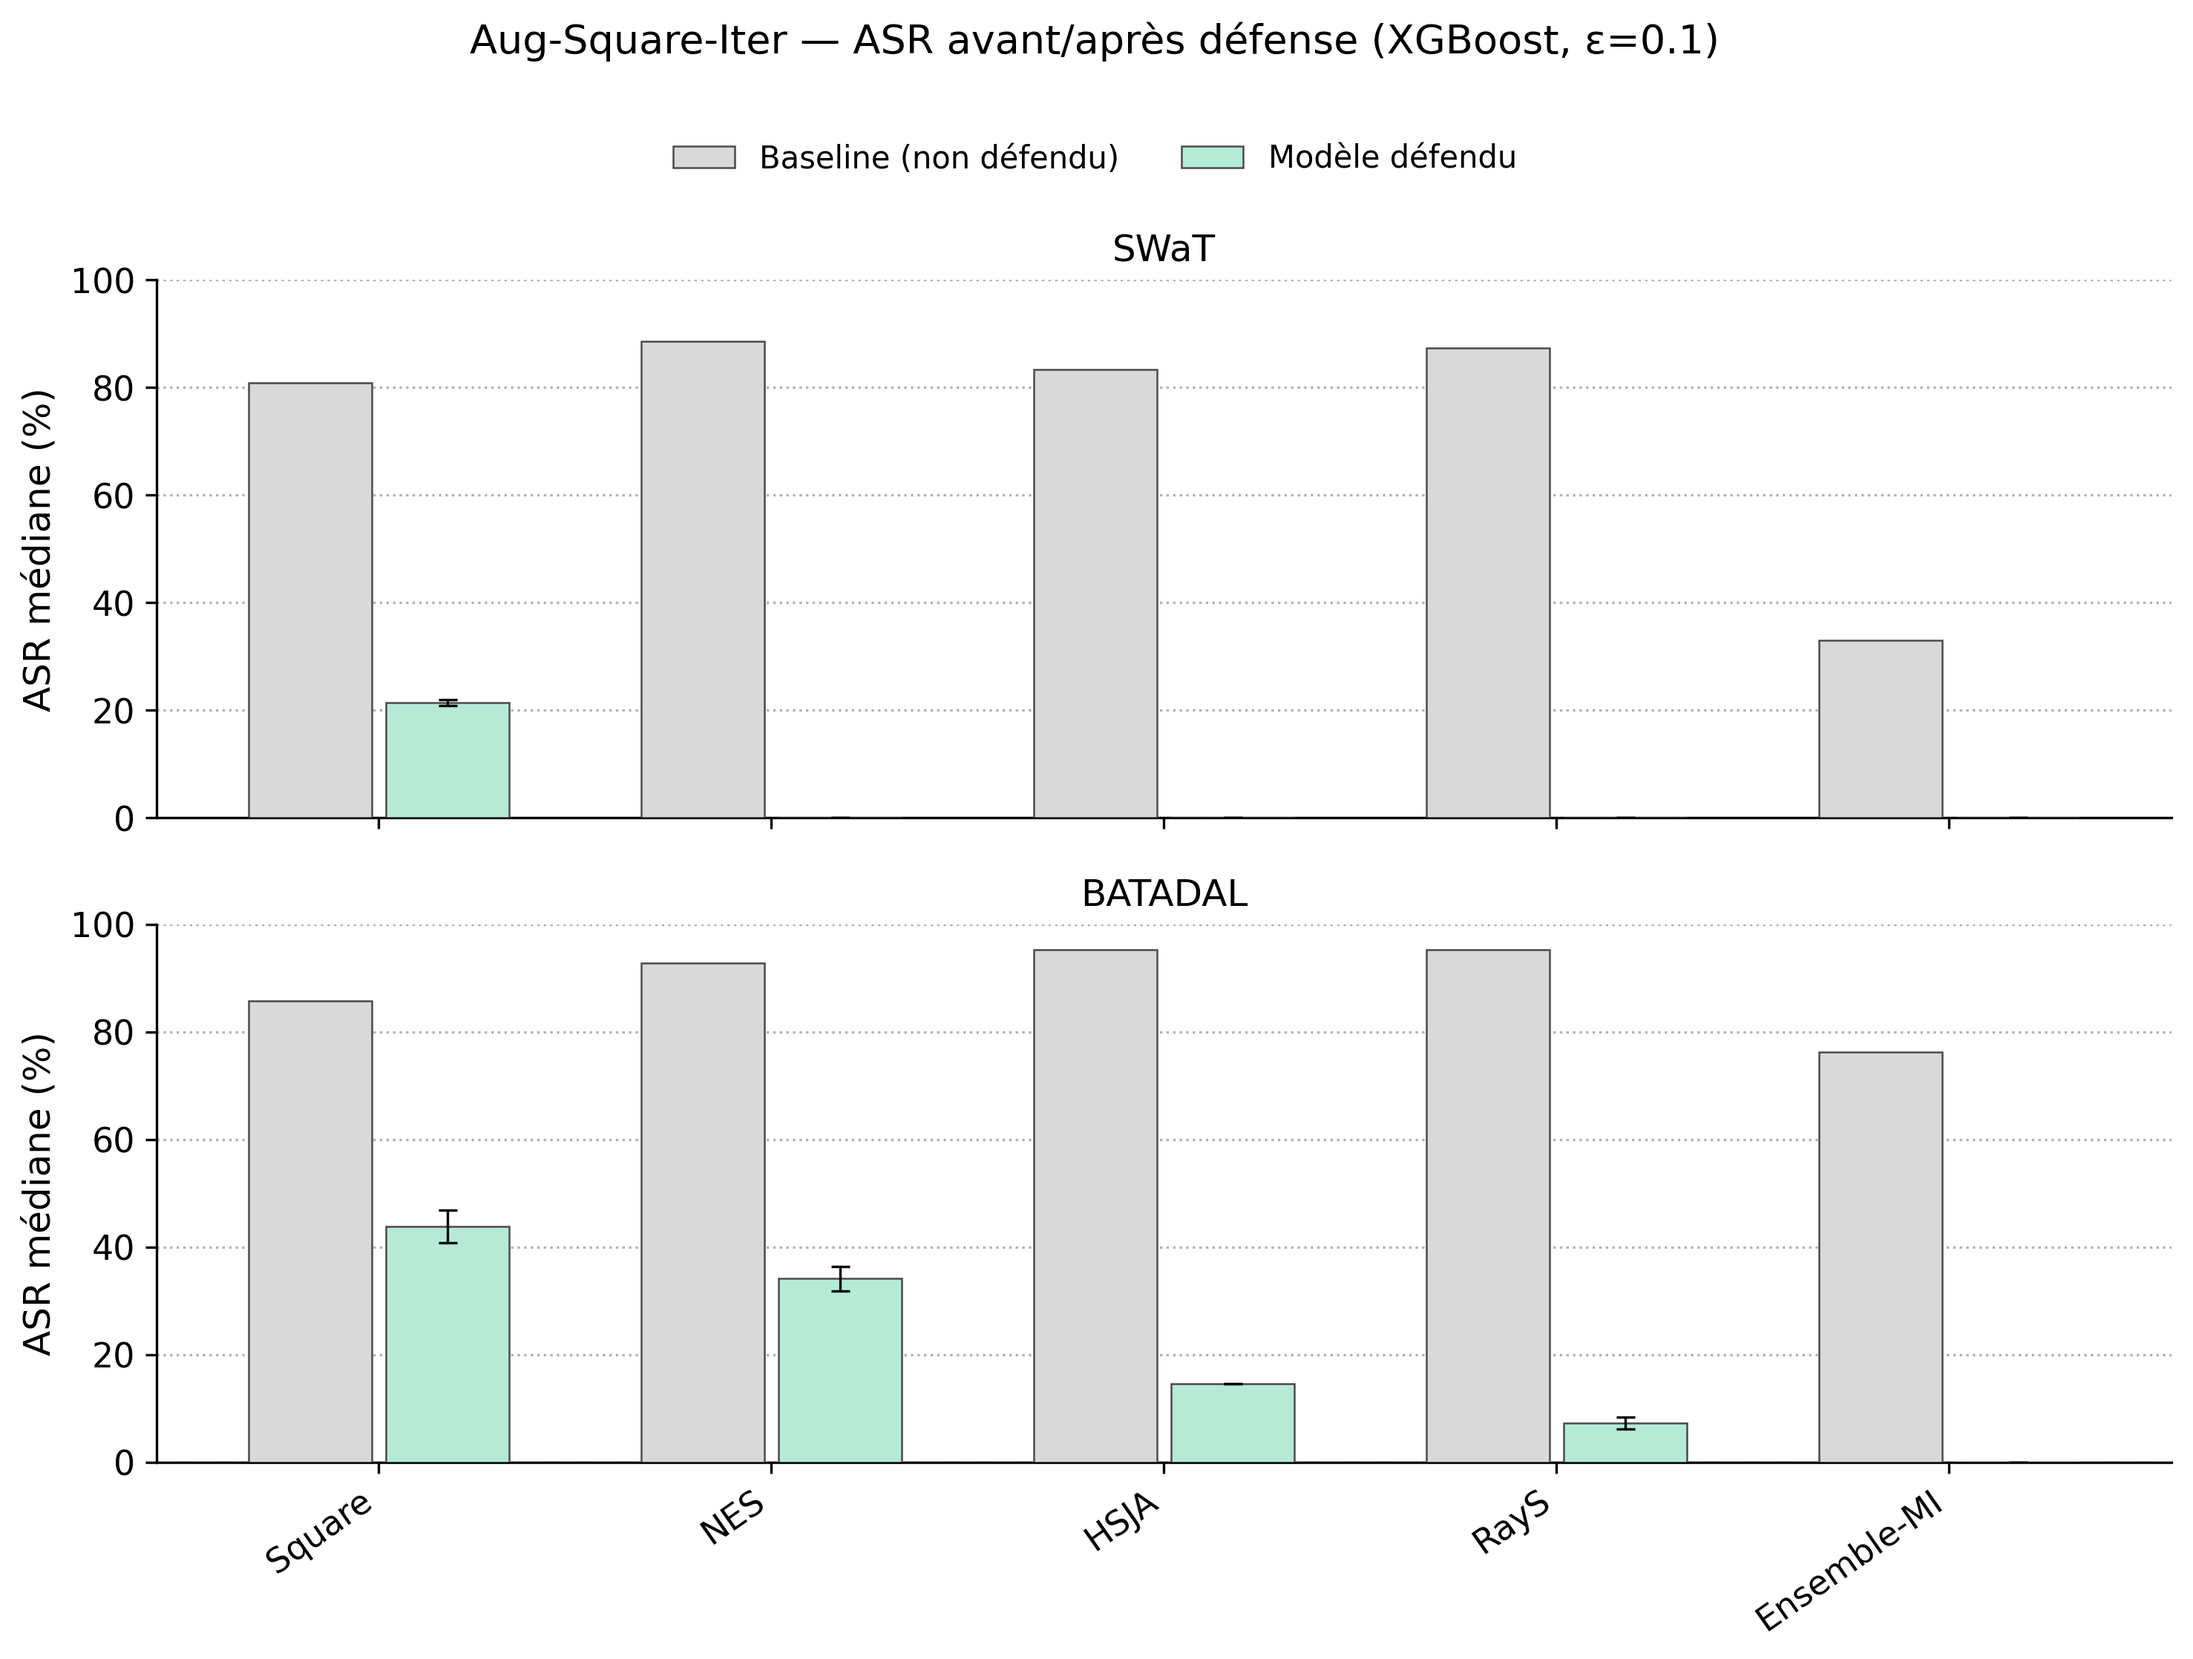
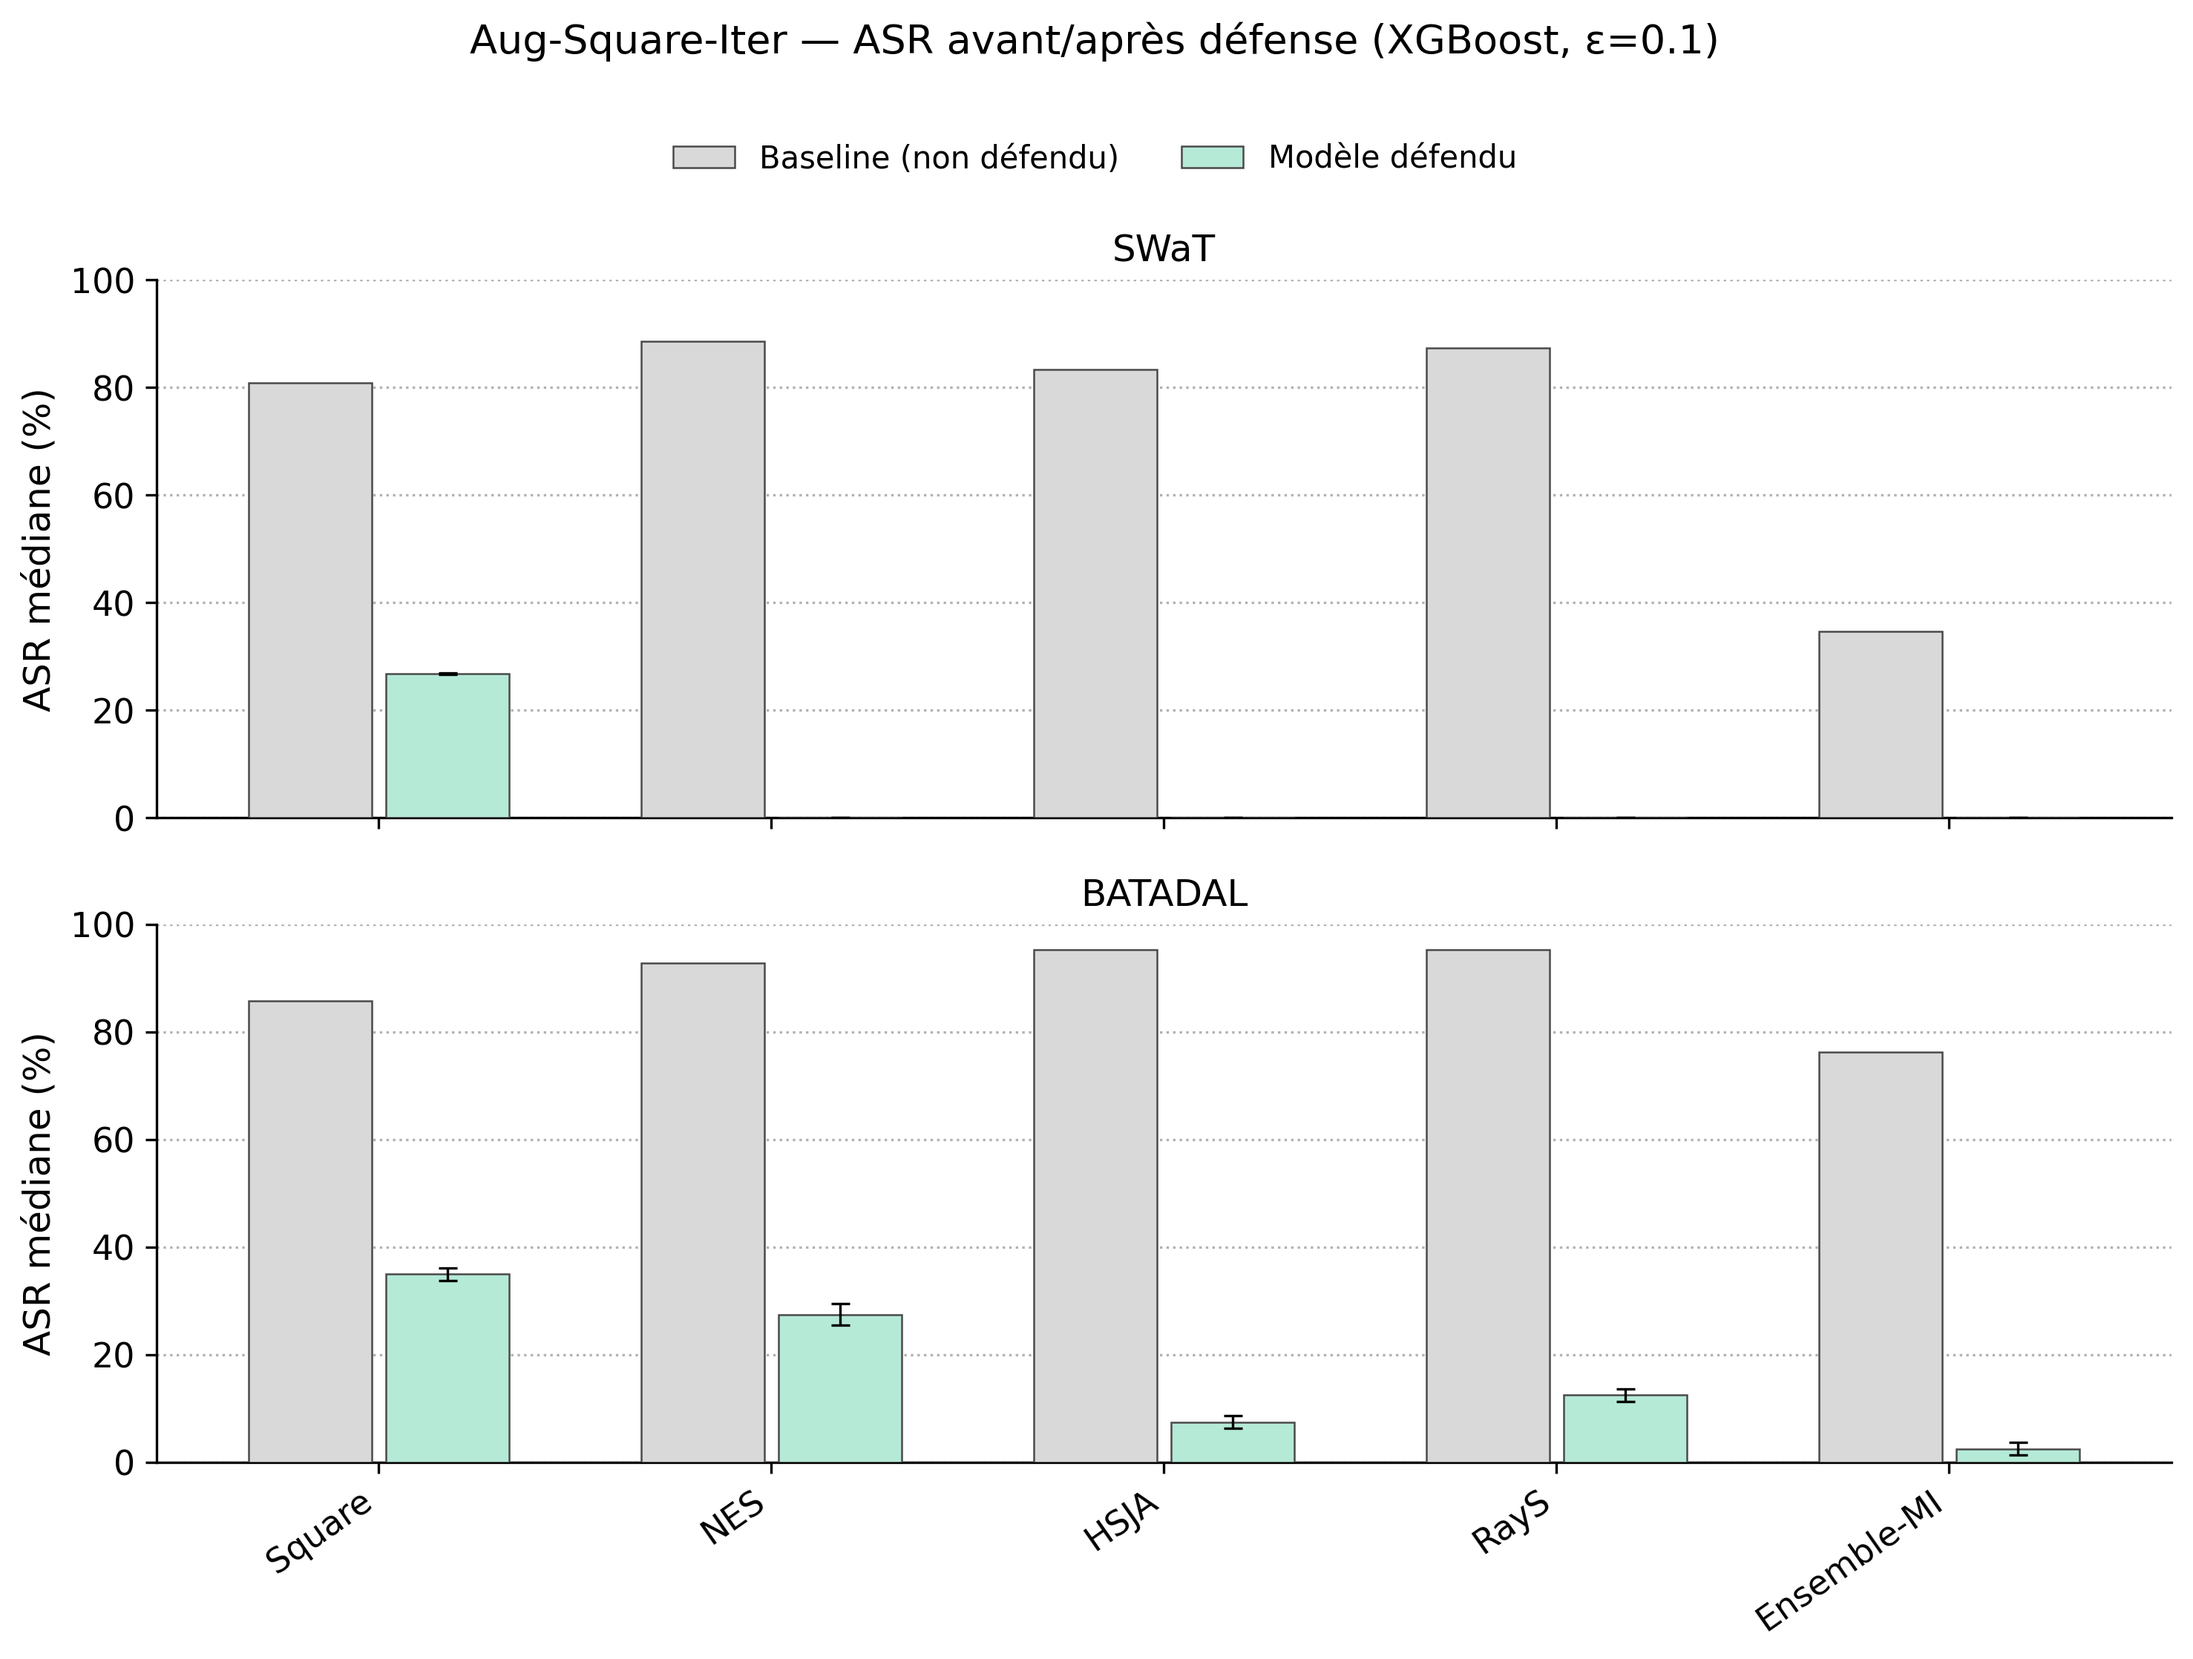
update

diff --git a/src/plot_results.py b/src/plot_results.py
@@ -28,24 +28,46 @@ from common import results_dir, RESULTS_DIR
 
 
 # ══════════════════════════════════════════════════════════════
-# PALETTE — Okabe-Ito (colorblind-safe), une couleur fixe par modèle,
-# utilisée partout de façon cohérente (jamais recyclée pour autre chose).
+# PALETTE — validée colorblind-safe (script dataviz/validate_palette.js,
+# CVD ΔE ≥ 8 sur toutes les paires, mode light, --pairs all). Une couleur
+# fixe par modèle, utilisée partout de façon cohérente (jamais recyclée
+# pour autre chose). Volontairement distincte du bleu/orange/vert terne
+# utilisé auparavant.
 # ══════════════════════════════════════════════════════════════
 
 MODEL_COLOR = {
-    "MLP":     "#0072B2",
-    "LogReg":  "#E69F00",
-    "XGBoost": "#009E73",
+    "MLP":     "#4A3AA7",  # violet
+    "LogReg":  "#EDA100",  # ambre
+    "XGBoost": "#E34948",  # rouge/corail
 }
 MODEL_ORDER = ["MLP", "LogReg", "XGBoost"]
-GRID_COLOR  = "#B0B0B0"
+GRID_COLOR  = "#C3C2B7"
+
+plt.rcParams.update({
+    "font.family":      "sans-serif",
+    "font.size":         10.5,
+    "axes.titlesize":    11,
+    "axes.labelsize":    10.5,
+    "xtick.labelsize":   9.5,
+    "ytick.labelsize":   9.5,
+    "legend.fontsize":   9.5,
+    "figure.facecolor":  "white",
+    "axes.facecolor":    "white",
+    "savefig.facecolor": "white",
+})
 
 
 def _style_axis(ax):
     ax.spines["top"].set_visible(False)
     ax.spines["right"].set_visible(False)
-    ax.yaxis.grid(True, ls="--", alpha=0.35, color=GRID_COLOR, zorder=0)
+    ax.yaxis.grid(True, ls="-", alpha=0.25, color=GRID_COLOR, lw=0.7, zorder=0)
     ax.set_axisbelow(True)
+
+
+def _savefig_png(fig, outp, dpi=300, **kwargs):
+    """Sauvegarde en PNG haute résolution."""
+    fig.savefig(outp, dpi=dpi, **kwargs)
+    print(f"  ✓ {outp.name}")
 
 
 # ══════════════════════════════════════════════════════════════
@@ -355,19 +377,19 @@ def _bar_panel_combined(ax, df, attack_order, title, value_col="asr"):
                 errs.append(float(row["std"].fillna(0).iloc[0]) * 100 if not row.empty else 0)
             xpos = x + (bar_idx - n_bars / 2 + 0.5) * w
             ax.bar(xpos, vals, width=w * 0.92, color=MODEL_COLOR[model],
-                   hatch=DATASET_HATCH[ds], edgecolor="white", linewidth=0.5,
+                   hatch=DATASET_HATCH[ds], edgecolor="white", linewidth=0.6,
                    yerr=errs, capsize=1.5, zorder=3)
             for xi, v in zip(xpos, vals):
                 if not np.isnan(v):
-                    ax.text(xi, v + 2, f"{v:.0f}", ha="center", va="bottom", fontsize=7)
+                    ax.text(xi, v + 2, f"{v:.0f}", ha="center", va="bottom", fontsize=7.5)
             finite = [v + e for v, e in zip(vals, errs) if not np.isnan(v)]
             if finite:
                 ymax = max(ymax, *finite)
             bar_idx += 1
 
     ax.set_xticks(x)
-    ax.set_xticklabels(attacks, fontsize=9)
-    ax.set_title(title, fontsize=9.5, fontweight="bold")
+    ax.set_xticklabels(attacks, fontsize=9.5)
+    ax.set_title(title, fontsize=10, fontweight="bold")
     ax.set_ylim(0, min(ymax + 22, 112))
     ax.yaxis.set_major_formatter(FuncFormatter(lambda v, _: f"{int(v)}%"))
 
@@ -422,9 +444,8 @@ def fig_blackbox_overview_combined(eps, datasets=("swat", "batadal")):
     out_dir = RESULTS_DIR / "combined" / "plots"
     out_dir.mkdir(parents=True, exist_ok=True)
     outp = out_dir / "overview_blackbox_all_en.png"
-    fig.savefig(outp, dpi=180, bbox_inches="tight")
+    _savefig_png(fig, outp, dpi=300, bbox_inches="tight")
     plt.close(fig)
-    print(f"  ✓ {outp}")
 
 
 # ══════════════════════════════════════════════════════════════
@@ -435,7 +456,7 @@ def fig_blackbox_overview_combined(eps, datasets=("swat", "batadal")):
 # Aug-Square / Aug-Square-Iter (LogReg/XGBoost) restent incluses.
 # ══════════════════════════════════════════════════════════════
 
-FAMILY_COLOR = {"Baseline": "#A8A8A8", "FGSM": "#FF4D5E", "Square": "#00C2A8", "PGD": "#7B2FF7"}
+FAMILY_COLOR = {"Baseline": "#6B6B68", "FGSM": "#1BAF7A", "Square": "#2A78D6", "PGD": "#C93F7C"}
 FAMILY_LABEL = {"Baseline": "Baseline", "FGSM": "FGSM-based defense",
                 "Square": "Square-based defense", "PGD": "PGD-based defense"}
 
@@ -470,15 +491,15 @@ def _bar_panel_defense(ax, df, attack_order, title, datasets, series_order):
                 vals.append(float(row["value"].iloc[0]) if not row.empty else np.nan)
             xpos = x + (bar_idx - n_bars / 2 + 0.5) * w
             ax.bar(xpos, vals, width=w * 0.92, color=color, hatch=DATASET_HATCH[ds],
-                  edgecolor="white", linewidth=0.5, zorder=3)
+                  edgecolor="white", linewidth=0.6, zorder=3)
             finite = [v for v in vals if not np.isnan(v)]
             if finite:
                 ymax = max(ymax, *finite)
             bar_idx += 1
 
     ax.set_xticks(x)
-    ax.set_xticklabels(attacks, fontsize=8.5, rotation=20, ha="right")
-    ax.set_title(title, fontsize=9.5, fontweight="bold")
+    ax.set_xticklabels(attacks, fontsize=9, rotation=20, ha="right")
+    ax.set_title(title, fontsize=10, fontweight="bold")
     ax.set_ylim(0, min(ymax + 15, 108))
     ax.yaxis.set_major_formatter(FuncFormatter(lambda v, _: f"{int(v)}%"))
 
@@ -545,9 +566,8 @@ def fig_defense_overview_combined(eps, datasets=("swat", "batadal"), exclude=("A
     out_dir = RESULTS_DIR / "combined" / "plots"
     out_dir.mkdir(parents=True, exist_ok=True)
     outp = out_dir / "overview_defenses_all_en.png"
-    fig.savefig(outp, dpi=180, bbox_inches="tight")
+    _savefig_png(fig, outp, dpi=300, bbox_inches="tight")
     plt.close(fig)
-    print(f"  ✓ {outp}")
 
 
 # ══════════════════════════════════════════════════════════════

diff --git a/src/defenses.py b/src/defenses.py
@@ -472,6 +472,17 @@ def augment_logreg(logreg_w, X_train, y_train, X_val, y_val, save_dir, attack, e
 def augment_xgboost_iterative(xgb_w, X_train, y_train, X_val, y_val,
                               save_dir, device, attack, eps, n_rounds,
                               bb_max_queries=300):
+    """
+    Augmentation itérative XGBoost + sélection du round par validation.
+
+    BUG corrigé (2026-08-16) : l'ancienne version gardait inconditionnellement
+    le DERNIER round, même si un round antérieur était meilleur — aucun score
+    n'était calculé. Même piège déjà rencontré et corrigé pour
+    augment_mlp_iterative (cf. son docstring : le F1_val peut chuter round
+    après round sur un dataset cumulé qui grossit). Fix : même score combiné
+    F1_val − ASR_val(FGSM, eps=EVAL_EPS_FOR_SELECTION) que pour LogReg/MLP,
+    calculé à CHAQUE round, on garde le meilleur.
+    """
     fpath = save_dir / f"xgb_iter_{attack}_r{n_rounds}.json"
     if fpath.exists():
         print(f"    {fpath.name} déjà présent → chargement direct")
@@ -484,6 +495,8 @@ def augment_xgboost_iterative(xgb_w, X_train, y_train, X_val, y_val,
     mask  = (y_train == 1)
     X_atk = X_train[mask].astype(np.float32)
     y_atk = y_train[mask]
+
+    best_overall_score, best_overall_model, best_overall_round = -1e9, None, None
 
     for r in range(1, n_rounds + 1):
         print(f"\n    ── Round {r}/{n_rounds} ──")
@@ -514,6 +527,33 @@ def augment_xgboost_iterative(xgb_w, X_train, y_train, X_val, y_val,
         new_xgb.fit(X_aug, y_aug, eval_set=[(X_val, y_val)], verbose=False)
         current = XGBoostWrapper(new_xgb)
         print(f"    XGB round {r} fitté ✓")
+
+        # Sélection du round : F1_val − ASR_val(FGSM) — même logique que
+        # augment_logreg / augment_mlp_iterative (cf. leurs docstrings).
+        pred_val = current.predict(X_val, threshold=THRESHOLD)
+        f1_val   = f1_score(y_val, pred_val, zero_division=0)
+        tp_mask  = (y_val == 1) & (pred_val == 1)
+        if tp_mask.sum() == 0:
+            asr_val = 1.0
+        else:
+            X_val_atk = X_val[tp_mask].astype(np.float32)
+            y_val_atk = y_val[tp_mask]
+            X_val_adv = fgsm_xgb(current, X_val_atk, y_val_atk, eps=EVAL_EPS_FOR_SELECTION)
+            pred_adv  = current.predict(X_val_adv, threshold=THRESHOLD)
+            asr_val   = float((pred_adv == 0).mean())
+        score = f1_val - asr_val
+        print(f"    Round {r}: F1_val={f1_val:.4f}  "
+              f"ASR_val(FGSM,eps={EVAL_EPS_FOR_SELECTION})={asr_val*100:.1f}%  "
+              f"score={score:+.4f}")
+
+        if score > best_overall_score:
+            best_overall_score  = score
+            best_overall_round  = r
+            best_overall_model  = new_xgb
+
+    current = XGBoostWrapper(best_overall_model)
+    print(f"\n    → Meilleur round retenu : {best_overall_round}/{n_rounds} "
+          f"(score {best_overall_score:+.4f})")
 
     current.model.save_model(str(fpath))
     print(f"\n    Sauvegardé : {fpath.name}")
